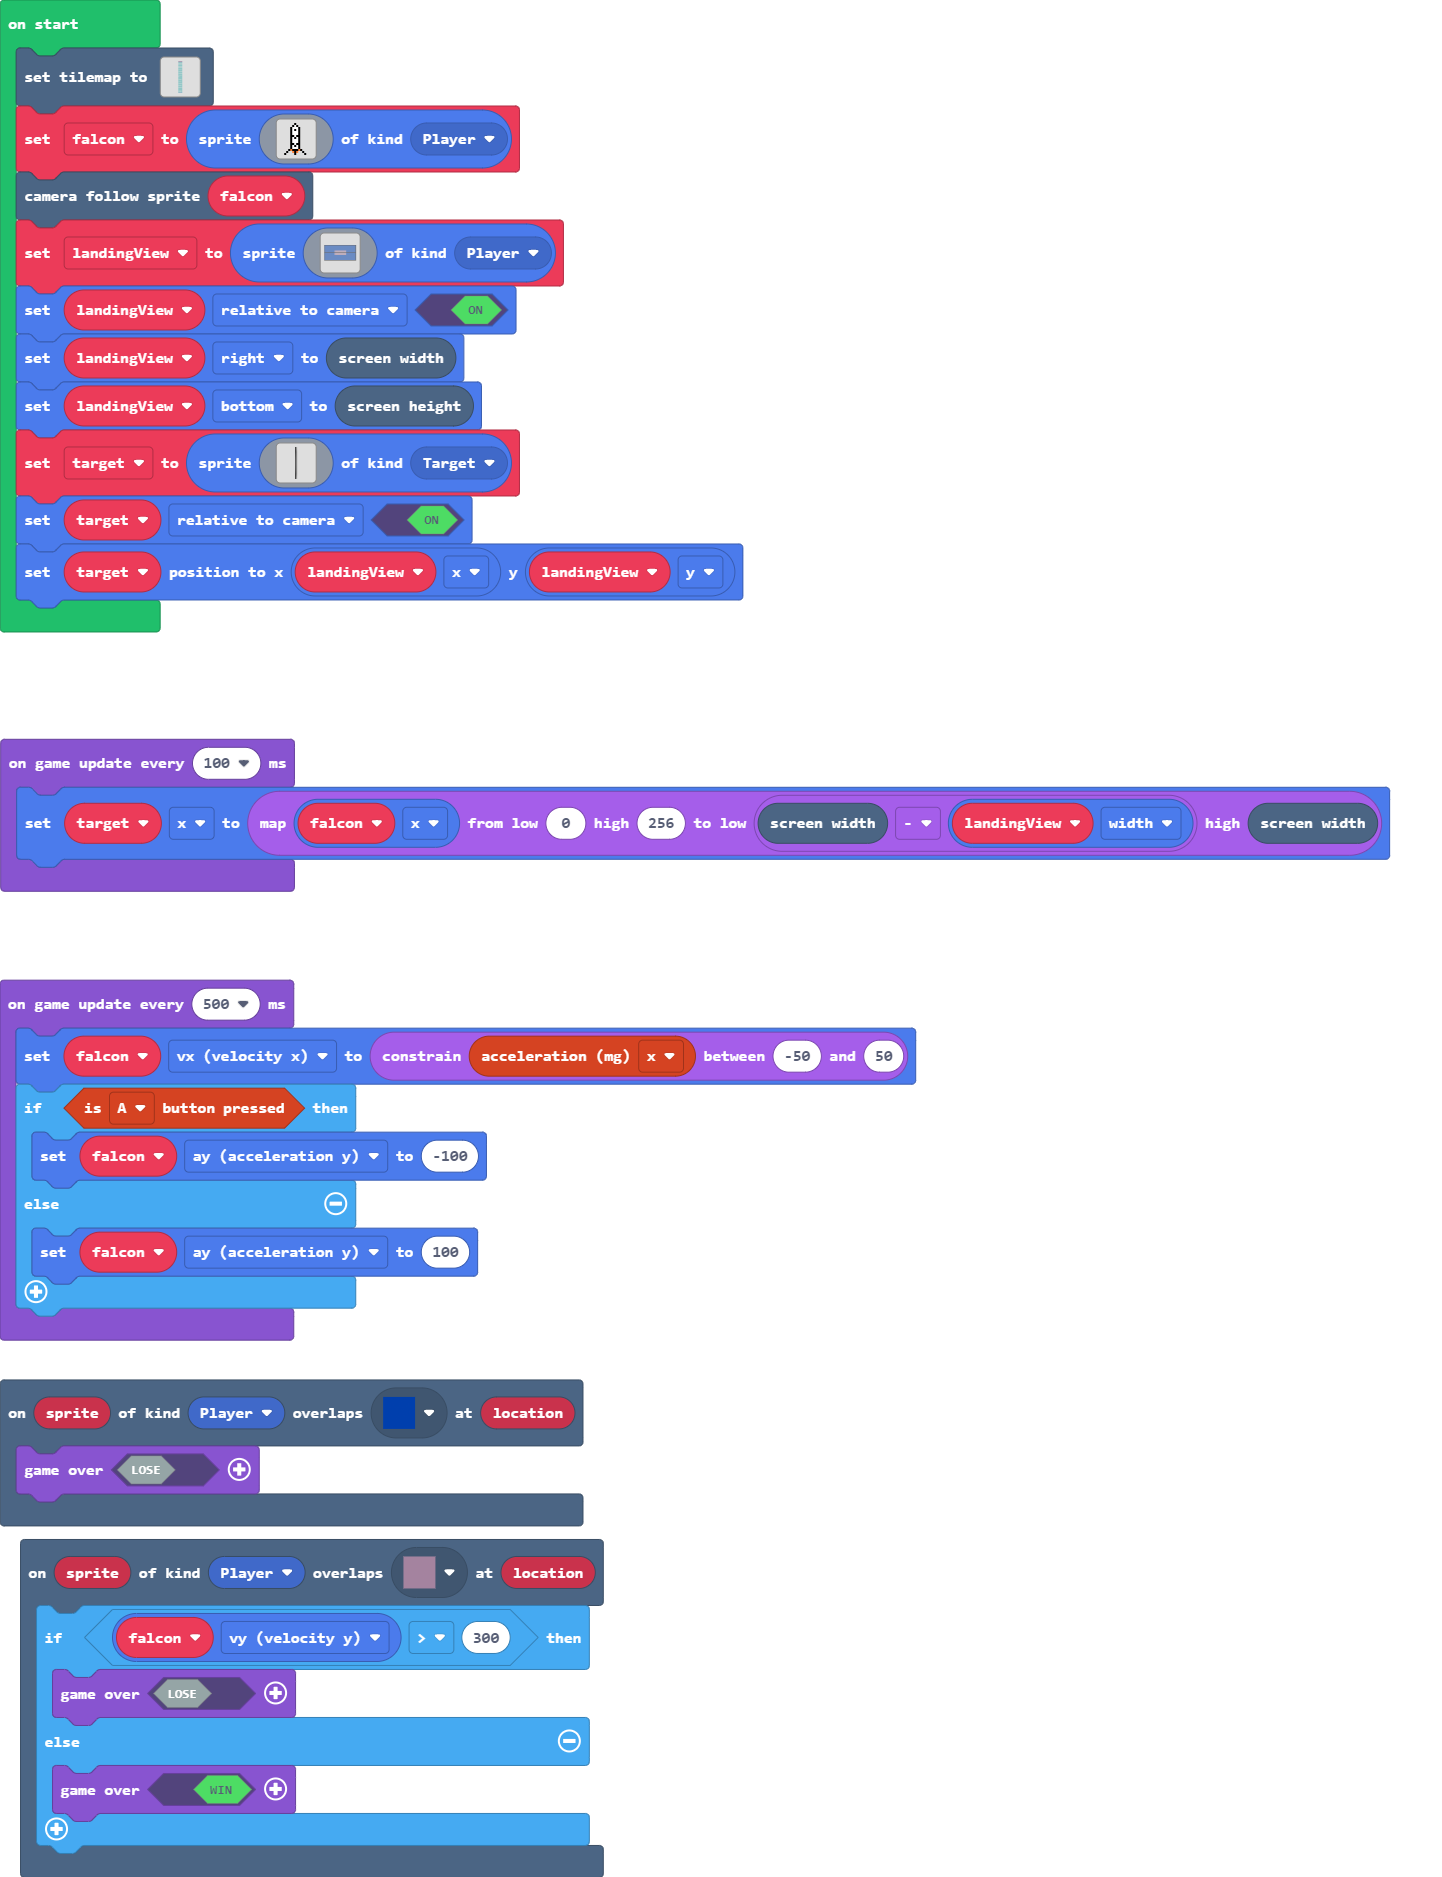
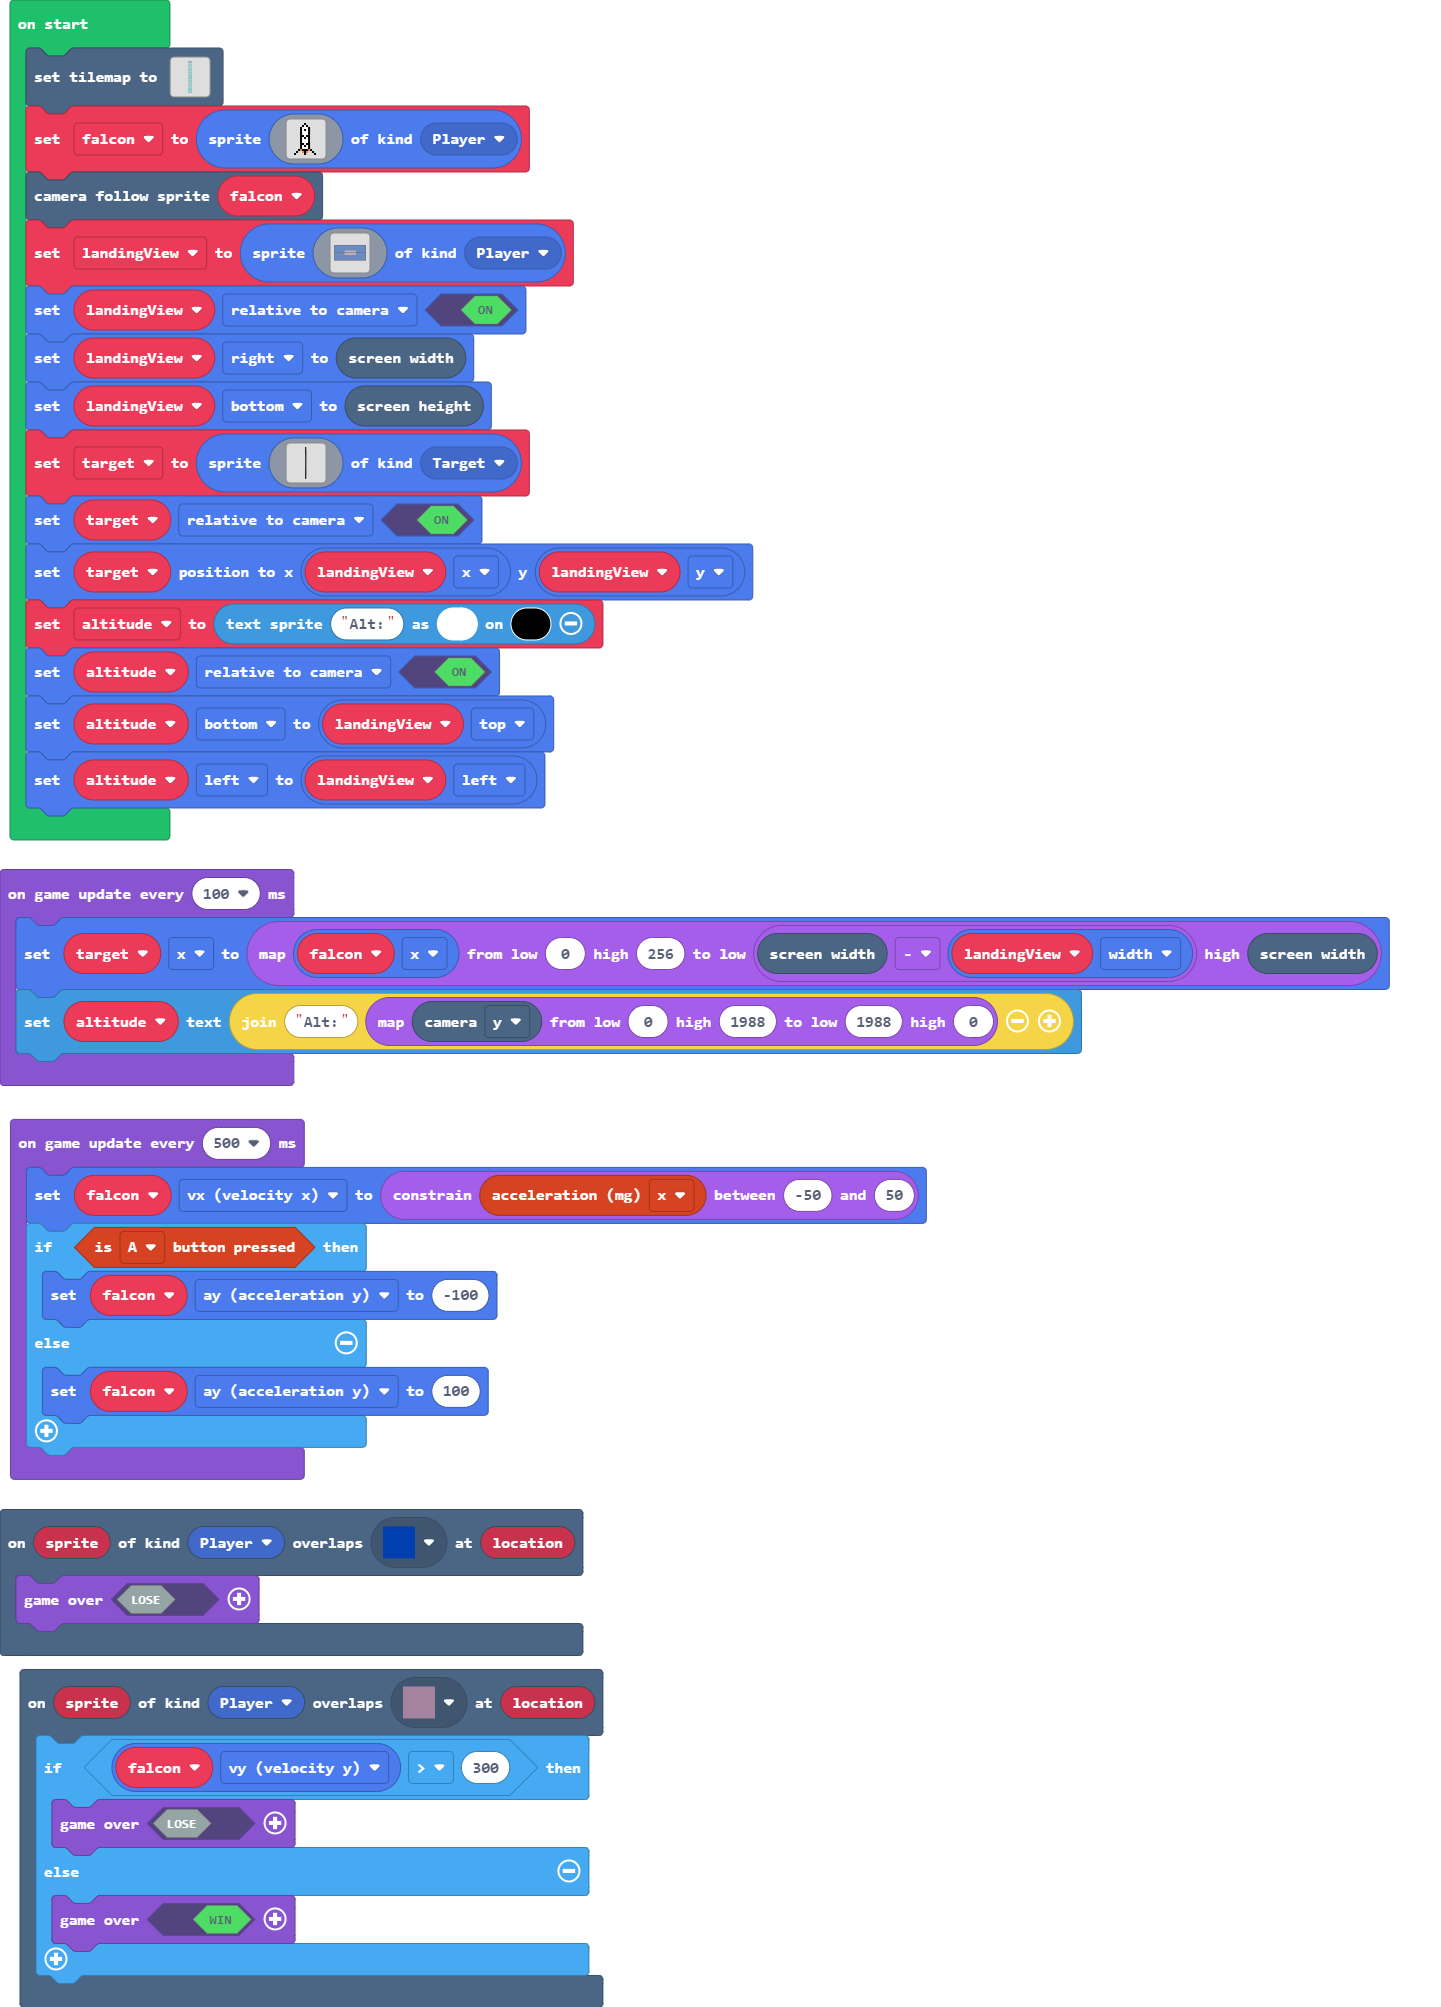
Add altitude.

diff --git a/main.ts b/main.ts
@@ -232,6 +232,10 @@ let target = sprites.create(img`
     `, SpriteKind.Target)
 target.setFlag(SpriteFlag.RelativeToCamera, true)
 target.setPosition(landingView.x, landingView.y)
+let altitude = textsprite.create("Alt:", 15, 1)
+altitude.setFlag(SpriteFlag.RelativeToCamera, true)
+altitude.bottom = landingView.top
+altitude.left = landingView.left
 game.onUpdateInterval(500, function () {
     falcon.vx = Math.constrain(controller.acceleration(ControllerDimension.X), -50, 50)
     if (controller.A.isPressed()) {
@@ -242,4 +246,5 @@ game.onUpdateInterval(500, function () {
 })
 game.onUpdateInterval(100, function () {
     target.x = Math.map(falcon.x, 0, 256, scene.screenWidth() - landingView.width, scene.screenWidth())
+    altitude.setText("Alt:" + Math.map(scene.cameraProperty(CameraProperty.Y), 0, 1988, 1988, 0))
 })
